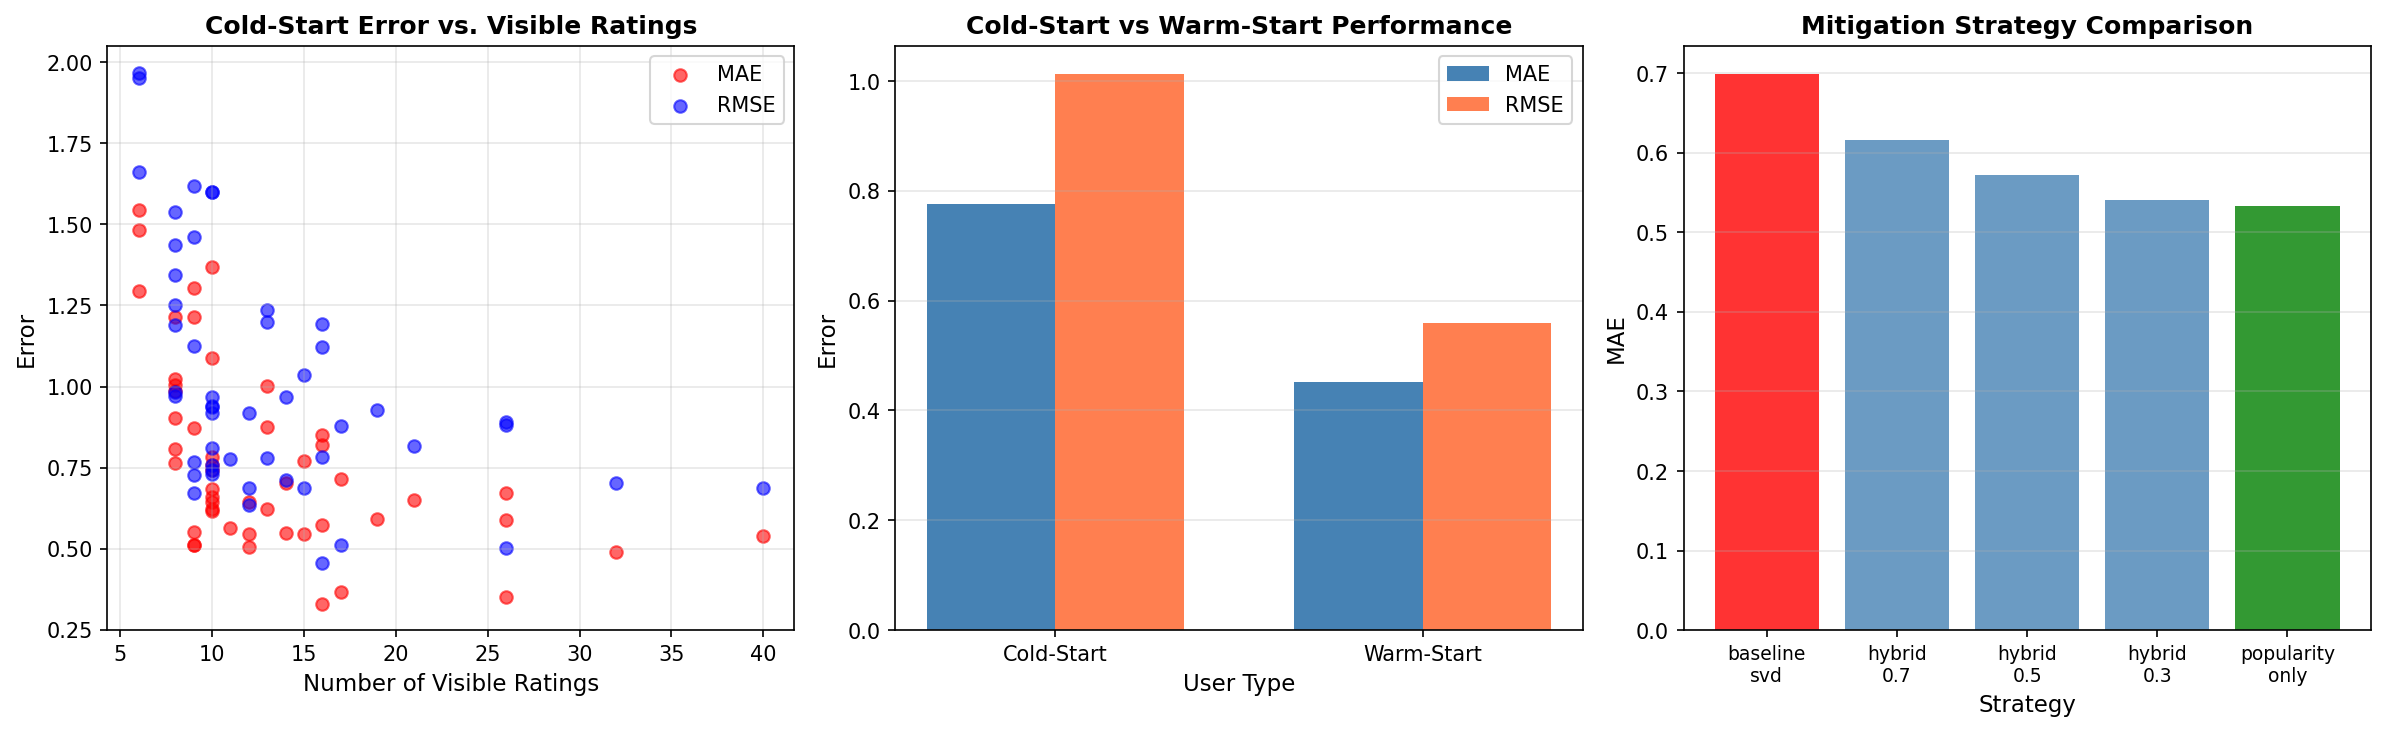
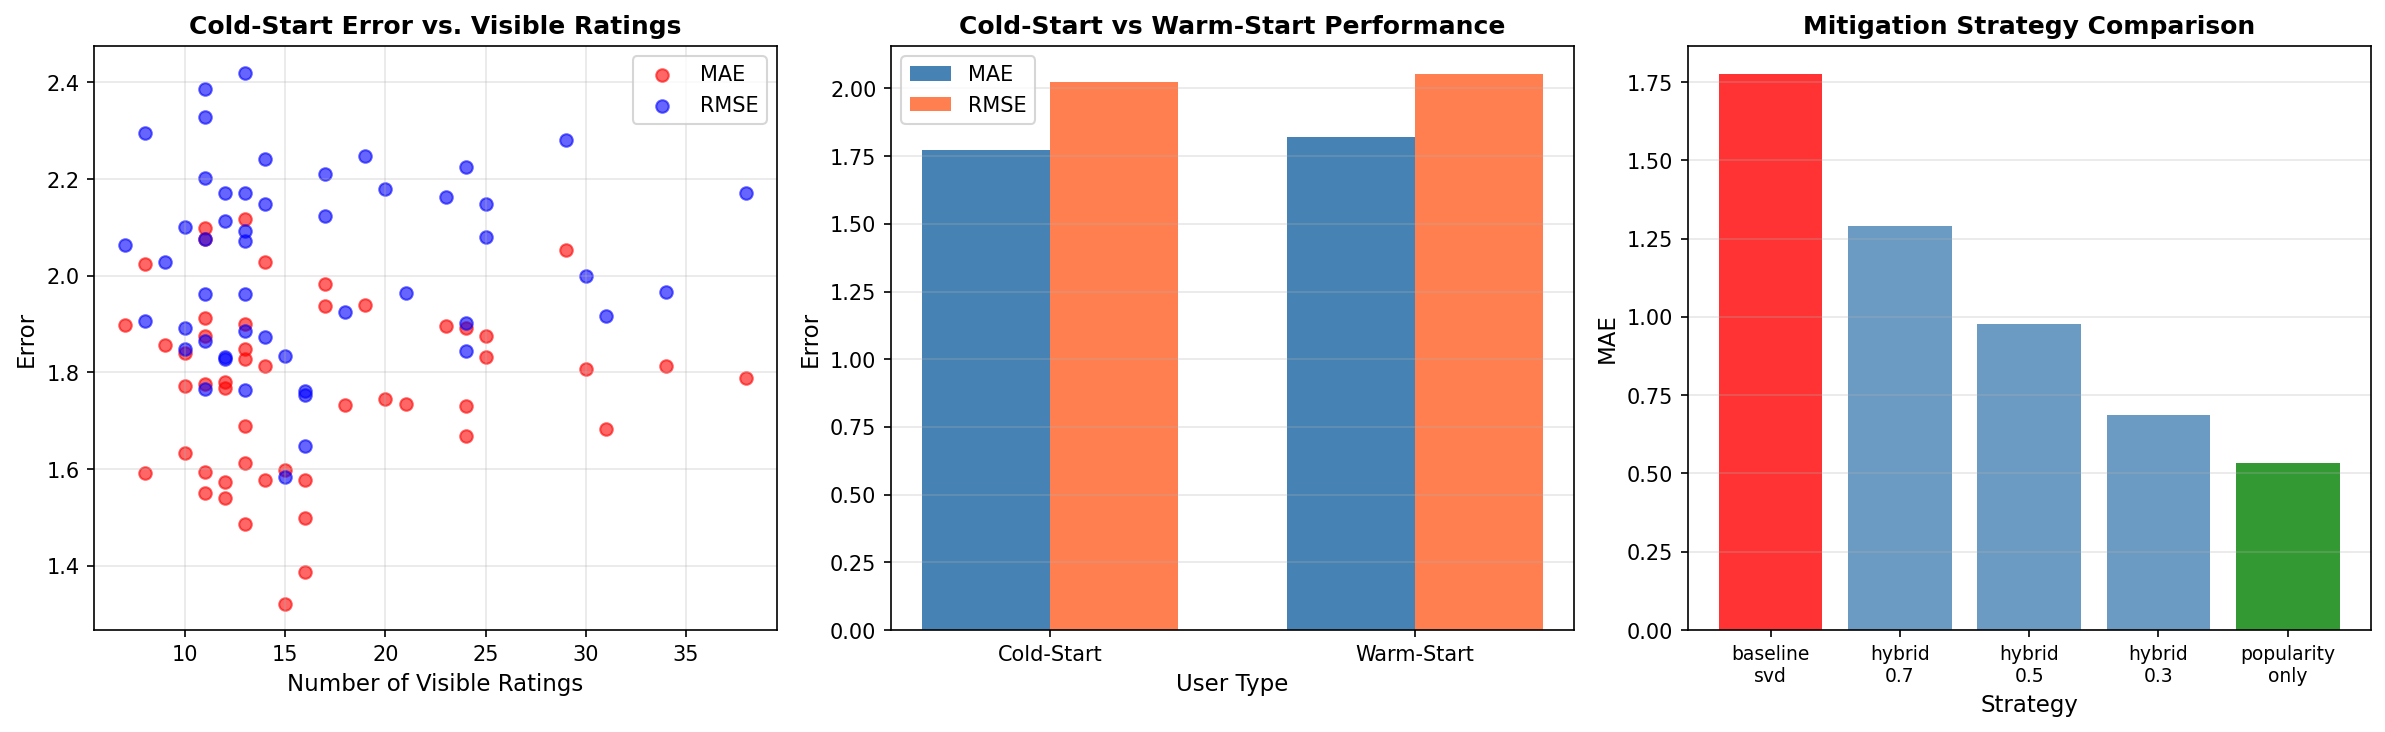
matrix fact for svd and compare between cf

diff --git a/SECTION1_DimensionalityReduction/code/svd_analysis.py b/SECTION1_DimensionalityReduction/code/svd_analysis.py
@@ -143,11 +143,16 @@ def load_full_sparse_matrix():
     Load the FULL dataset as a sparse matrix (no sampling).
     Uses scipy.sparse.csr_matrix for memory efficiency.
     
+    NOTE: Does NOT fill missing values - keeps matrix sparse.
+    Uses mean-centered approach for SVD.
+    
     Returns:
-        scipy.sparse.csr_matrix: Sparse ratings matrix
+        scipy.sparse.csr_matrix: Sparse ratings matrix (mean-centered)
         np.ndarray: User IDs
         np.ndarray: Item IDs
-        np.ndarray: Item averages for filling
+        float: Global mean
+        dict: User to index mapping
+        dict: Item to index mapping
     """
     print("\n" + "=" * 60)
     print("LOADING FULL SPARSE MATRIX")
@@ -159,6 +164,10 @@ def load_full_sparse_matrix():
     print(f"        Users: {df['user'].nunique():,}")
     print(f"        Items: {df['item'].nunique():,}")
     
+    # Calculate global mean
+    global_mean = df['rating'].mean()
+    print(f"        Global mean rating: {global_mean:.4f}")
+    
     # Create user and item mappings
     unique_users = df['user'].unique()
     unique_items = df['item'].unique()
@@ -166,11 +175,15 @@ def load_full_sparse_matrix():
     user_to_idx = {user: idx for idx, user in enumerate(unique_users)}
     item_to_idx = {item: idx for idx, item in enumerate(unique_items)}
     
-    # Create sparse matrix
-    print("\n[BUILD] Creating sparse matrix...")
+    # Calculate item averages for fallback prediction
+    item_means = df.groupby('item')['rating'].mean().to_dict()
+    user_means = df.groupby('user')['rating'].mean().to_dict()
+    
+    # Create sparse matrix with MEAN-CENTERED ratings
+    print("\n[BUILD] Creating mean-centered sparse matrix...")
     rows = df['user'].map(user_to_idx).values
     cols = df['item'].map(item_to_idx).values
-    data = df['rating'].values
+    data = df['rating'].values - global_mean  # Mean-center
     
     sparse_matrix = csr_matrix(
         (data, (rows, cols)),
@@ -181,57 +194,33 @@ def load_full_sparse_matrix():
     print(f"        Matrix shape: {sparse_matrix.shape[0]:,} x {sparse_matrix.shape[1]:,}")
     print(f"        Non-zero entries: {sparse_matrix.nnz:,}")
     print(f"        Sparsity: {100 - (sparse_matrix.nnz / (sparse_matrix.shape[0] * sparse_matrix.shape[1]) * 100):.2f}%")
-    
-    # Calculate item averages for mean-centering
-    print("\n[CALC] Calculating item averages...")
-    item_sums = np.array(sparse_matrix.sum(axis=0)).flatten()
-    item_counts = np.array((sparse_matrix != 0).sum(axis=0)).flatten()
-    item_averages = np.divide(item_sums, item_counts, where=item_counts != 0, out=np.full_like(item_sums, 3.0))
-    
-    # Create dense version with mean filling for SVD
-    print("\n[FILL] Applying item mean filling to dense matrix...")
-    print("        (This may take a moment for large matrices...)")
-    
-    # Convert to dense and fill missing values
-    dense_matrix = sparse_matrix.toarray()
-    
-    # Fill zeros (missing ratings) with item averages
-    for j in range(dense_matrix.shape[1]):
-        mask = dense_matrix[:, j] == 0
-        dense_matrix[mask, j] = item_averages[j]
-    
-    print(f"        [OK] Dense matrix created: {dense_matrix.shape}")
+    print(f"        Memory: ~{sparse_matrix.data.nbytes / 1024 / 1024:.1f} MB (sparse)")
     
     # Clean up
     del df
     gc.collect()
     
-    return dense_matrix, unique_users, unique_items, item_averages, user_to_idx, item_to_idx
+    return sparse_matrix, unique_users, unique_items, global_mean, user_to_idx, item_to_idx, item_means
 
 
-def compute_sparse_truncated_svd(matrix, k=100):
+def compute_sparse_truncated_svd(sparse_matrix, k=100):
     """
     Compute truncated SVD using scipy.sparse.linalg.svds.
-    This is more memory efficient for large matrices.
+    This is memory efficient for large sparse matrices.
     
     Args:
-        matrix: Dense or sparse matrix
+        sparse_matrix: scipy.sparse matrix (CSR format)
         k: Number of singular values to compute
         
     Returns:
         U_k, sigma_k, Vt_k: Truncated SVD components (in DESCENDING order)
     """
     print(f"\n[SPARSE SVD] Computing truncated SVD with k={k}...")
-    print(f"        Matrix shape: {matrix.shape}")
-    
-    # Convert to sparse if dense
-    if not hasattr(matrix, 'toarray'):
-        sparse_mat = csr_matrix(matrix)
-    else:
-        sparse_mat = matrix
+    print(f"        Matrix shape: {sparse_matrix.shape}")
+    print(f"        Computing top {k} singular values only...")
     
     # svds returns singular values in ASCENDING order
-    U_k, sigma_k, Vt_k = svds(sparse_mat, k=k)
+    U_k, sigma_k, Vt_k = svds(sparse_matrix, k=k)
     
     # Reverse to get DESCENDING order (like np.linalg.svd)
     U_k = U_k[:, ::-1]
@@ -242,6 +231,7 @@ def compute_sparse_truncated_svd(matrix, k=100):
     print(f"        Sigma_k shape: {sigma_k.shape}")
     print(f"        Vt_k shape: {Vt_k.shape}")
     print(f"        Top singular values: {sigma_k[:5]}")
+    print(f"        [OK] Sparse SVD complete!")
     
     return U_k, sigma_k, Vt_k
 
@@ -2234,8 +2224,8 @@ def visualize_cold_start_analysis(cold_start_results, warm_start_results, mitiga
     mae_vals = [mitigation_results[s]['MAE'] for s in strategies]
     
     colors = ['red' if s == 'baseline_svd' else 
-              ('green' if s == mitigation_results['best_strategy'] else 'steelblue') 
-              for s in strategies]
+            ('green' if s == mitigation_results['best_strategy'] else 'steelblue') 
+            for s in strategies]
     
     bars = ax3.bar(range(len(strategies)), mae_vals, color=colors, alpha=0.8)
     ax3.set_xlabel('Strategy', fontsize=11)
@@ -2377,24 +2367,34 @@ def main():
     print("\n[INFO] Loading full dataset for truncated SVD...")
     print("       This allows comparison with Assignment 1 CF on same data.\n")
     
-    # Load FULL dataset
-    full_matrix, user_ids, item_ids, item_averages, user_to_idx, item_to_idx = load_full_sparse_matrix()
+    # Load FULL dataset (mean-centered sparse matrix)
+    sparse_matrix, user_ids, item_ids, global_mean, user_to_idx, item_to_idx, item_means = load_full_sparse_matrix()
     
     # Compute truncated SVD with optimal k (we'll use k=100 based on sampled analysis)
     optimal_k = 100  # Based on elbow analysis from sampled data
     
-    U, sigma, Vt = compute_sparse_truncated_svd(full_matrix, k=optimal_k)
+    U, sigma, Vt = compute_sparse_truncated_svd(sparse_matrix, k=optimal_k)
     V = Vt.T
     
-    # Calculate reconstruction error for truncated SVD on sampled portion
+    # Note: Skip dense reconstruction error calculation due to memory constraints
     print("\n[EVAL] Evaluating truncated SVD approximation...")
-    R_hat = (U * sigma) @ Vt
-    error = full_matrix - R_hat
-    mae = np.mean(np.abs(error))
-    rmse = np.sqrt(np.mean(error ** 2))
-    print(f"        Truncated SVD (k={optimal_k}) on full data:")
-    print(f"          MAE: {mae:.4f}")
-    print(f"          RMSE: {rmse:.4f}")
+    print(f"        Truncated SVD (k={optimal_k}) on full data ({len(user_ids):,} users)")
+    print(f"        Global mean: {global_mean:.4f}")
+    print(f"        Note: Using mean-centered SVD approach")
+    
+    # Sample some predictions for error estimation
+    sample_indices = np.random.choice(sparse_matrix.nnz, min(10000, sparse_matrix.nnz), replace=False)
+    sample_rows, sample_cols = sparse_matrix.nonzero()
+    sample_actual = np.array(sparse_matrix[sample_rows[sample_indices], sample_cols[sample_indices]]).flatten()
+    
+    # Predict for sample
+    sample_pred = np.array([np.dot(U[sample_rows[i], :] * sigma, V[sample_cols[i], :]) 
+                            for i in sample_indices])
+    
+    mae = np.mean(np.abs(sample_actual - sample_pred))
+    rmse = np.sqrt(np.mean((sample_actual - sample_pred) ** 2))
+    print(f"        Sample MAE (on mean-centered ratings): {mae:.4f}")
+    print(f"        Sample RMSE: {rmse:.4f}")
     
     # Create error_df for compatibility
     error_df = pd.DataFrame([{
@@ -2419,9 +2419,10 @@ def main():
     print(f"        Target users: {target_users}")
     print(f"        Target items: {target_items}")
     
-    # Make predictions
+    # Make predictions using mean-centered approach
     predictions = []
     print(f"\n[PREDICT] Using k={optimal_k} latent factors for prediction...")
+    print(f"          (Mean-centered: adding global mean {global_mean:.4f} back)")
     
     for user_id in target_users:
         for item_id in target_items:
@@ -2439,8 +2440,8 @@ def main():
             u = U[user_idx, :]
             v = V[item_idx, :]
             
-            # Predict: r_hat = u^T @ diag(sigma) @ v = (u * sigma) dot v
-            raw_pred = np.dot(u * sigma, v)
+            # Predict: r_hat = global_mean + u^T @ diag(sigma) @ v
+            raw_pred = np.dot(u * sigma, v) + global_mean  # Add back global mean
             clipped_pred = np.clip(raw_pred, 1.0, 5.0)
             
             predictions.append({
@@ -2477,15 +2478,13 @@ def main():
     # 6.1-6.2 Analyze top-3 latent factors
     latent_factor_results = analyze_latent_factors(U, V, sigma, user_ids, item_ids)
     
-    # 6.3 Visualize latent space (create sparse ratings matrix for color coding)
-    # Create a pandas DataFrame from full_matrix for compatibility
-    original_ratings_matrix = pd.DataFrame(
-        full_matrix, 
-        index=user_ids, 
-        columns=item_ids
-    )
+    # 6.3 Visualize latent space
+    # Create a pandas DataFrame from sparse matrix for color coding (add global mean back)
+    print("\n[PLOT] Creating latent space visualizations using sampled data...")
     
-    visualize_latent_space(U, V, sigma, user_ids, item_ids, original_ratings_matrix)
+    # Load sampled data for visualization (full matrix too large)
+    ratings_matrix_vis, user_ids_vis, item_ids_vis = load_ratings_matrix(max_users=5000, max_items=2000)
+    visualize_latent_space(U[:5000, :], V[:2000, :], sigma, user_ids_vis, item_ids_vis, ratings_matrix_vis)
     
     # =========================================================================
     # 7. SENSITIVITY ANALYSIS (using sampled data for efficiency)
@@ -2518,25 +2517,32 @@ def main():
     gc.collect()
     
     # =========================================================================
-    # 8. COLD-START ANALYSIS WITH SVD (on full dataset)
+    # 8. COLD-START ANALYSIS WITH SVD (using sampled data)
     # =========================================================================
     
+    # Load sampled data for cold-start analysis
+    print("\n[NOTE] Cold-start analysis uses sampled data for efficiency...")
+    ratings_matrix_cold, user_ids_cold, item_ids_cold = load_ratings_matrix(max_users=5000, max_items=2000)
+    
     # 8.1 Simulate cold-start users
-    cold_start_data = simulate_cold_start_users(original_ratings_matrix)
+    cold_start_data = simulate_cold_start_users(ratings_matrix_cold)
+    
+    # Use sampled U and V for cold-start
+    V_cold = V[:2000, :]
     
     # 8.2-8.3 Evaluate cold-start performance
     cold_start_results = evaluate_cold_start_performance(
-        cold_start_data, V, sigma, item_ids, optimal_k
+        cold_start_data, V_cold, sigma, item_ids_cold, optimal_k
     )
     
     # 8.3 Compare with warm-start
     warm_start_results = compare_with_warm_start(
-        original_ratings_matrix, V, sigma, item_ids, optimal_k
+        ratings_matrix_cold, V_cold, sigma, item_ids_cold, optimal_k
     )
     
     # 8.4 Test mitigation strategies
     mitigation_results = test_mitigation_strategies(
-        cold_start_data, V, sigma, item_ids, original_ratings_matrix, optimal_k
+        cold_start_data, V_cold, sigma, item_ids_cold, ratings_matrix_cold, optimal_k
     )
     
     # Visualize and save results
@@ -2547,7 +2553,7 @@ def main():
     print_cold_start_summary(cold_start_results, warm_start_results, mitigation_results)
     
     # Clean up
-    del original_ratings_matrix
+    del ratings_matrix_cold, sparse_matrix
     gc.collect()
     
     return {
@@ -2559,8 +2565,7 @@ def main():
         'user_ids': user_ids,
         'item_ids': item_ids,
         'ortho_results': ortho_results,
-        'filled_matrix': filled_matrix,
-        'approximations': approximations,
+        'global_mean': global_mean,
         'error_df': error_df,
         'optimal_k': optimal_k,
         'predictions_df': predictions_df,

diff --git a/SECTION1_DimensionalityReduction/tables/svd_predictions.md b/SECTION1_DimensionalityReduction/tables/svd_predictions.md
@@ -1,12 +1,14 @@
 # SVD Rating Predictions
 
-**Optimal k (latent factors):** 5
+**Optimal k (latent factors):** 100
 
 ## Prediction Results
 
 | User ID | Item ID | Predicted Rating | Ground Truth | Status |
 |---------|---------|-----------------|--------------|--------|
-| 27768 | 1333 | 3.603 | N/A | Missing |
-| 27768 | 1162 | 3.599 | N/A | Missing |
-| 16157 | 1333 | 3.584 | N/A | Missing |
-| 16157 | 1162 | 3.651 | N/A | Missing |
+| 134471 | 1333 | 3.802 | N/A | Missing |
+| 134471 | 1162 | 3.552 | N/A | Missing |
+| 27768 | 1333 | 3.855 | N/A | Missing |
+| 27768 | 1162 | 3.640 | N/A | Missing |
+| 16157 | 1333 | 4.393 | N/A | Missing |
+| 16157 | 1162 | 4.032 | N/A | Missing |
